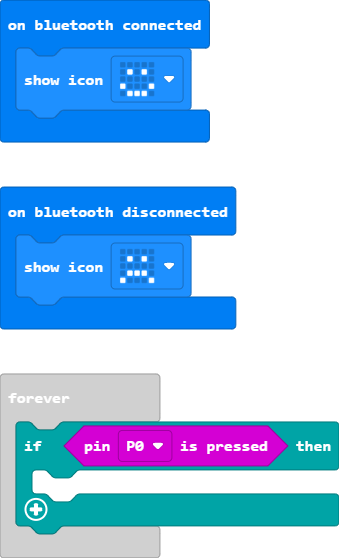
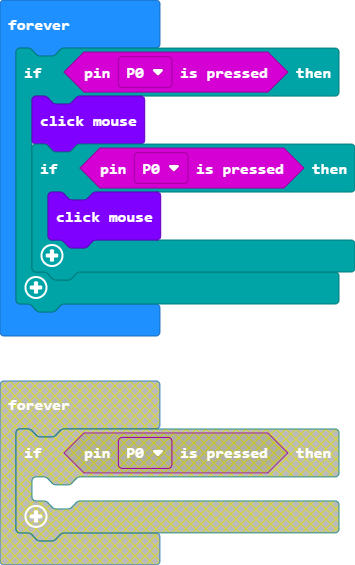
Update pxt.json, main.blocks, main.ts, main.py

diff --git a/main.ts b/main.ts
@@ -13,6 +13,9 @@ basic.showLeds(`
     `)
 basic.forever(function () {
     if (input.pinIsPressed(TouchPin.P0)) {
-    	
+        mouse.click()
+        if (input.pinIsPressed(TouchPin.P0)) {
+            mouse.click()
+        }
     }
 })

diff --git a/main.py b/main.py
@@ -1,3 +1,11 @@
+def on_bluetooth_connected():
+    basic.show_icon(IconNames.HAPPY)
+bluetooth.on_bluetooth_connected(on_bluetooth_connected)
+
+def on_bluetooth_disconnected():
+    basic.show_icon(IconNames.SAD)
+bluetooth.on_bluetooth_disconnected(on_bluetooth_disconnected)
+
 basic.show_leds("""
     . . . # .
         . . . # .
@@ -7,5 +15,8 @@ basic.show_leds("""
 """)
 
 def on_forever():
-    pass
+    if input.pin_is_pressed(TouchPin.P0):
+        absmouse.start_absolute_mouse_service()
+        if input.pin_is_pressed(TouchPin.P0):
+            absmouse.start_absolute_mouse_service()
 basic.forever(on_forever)
